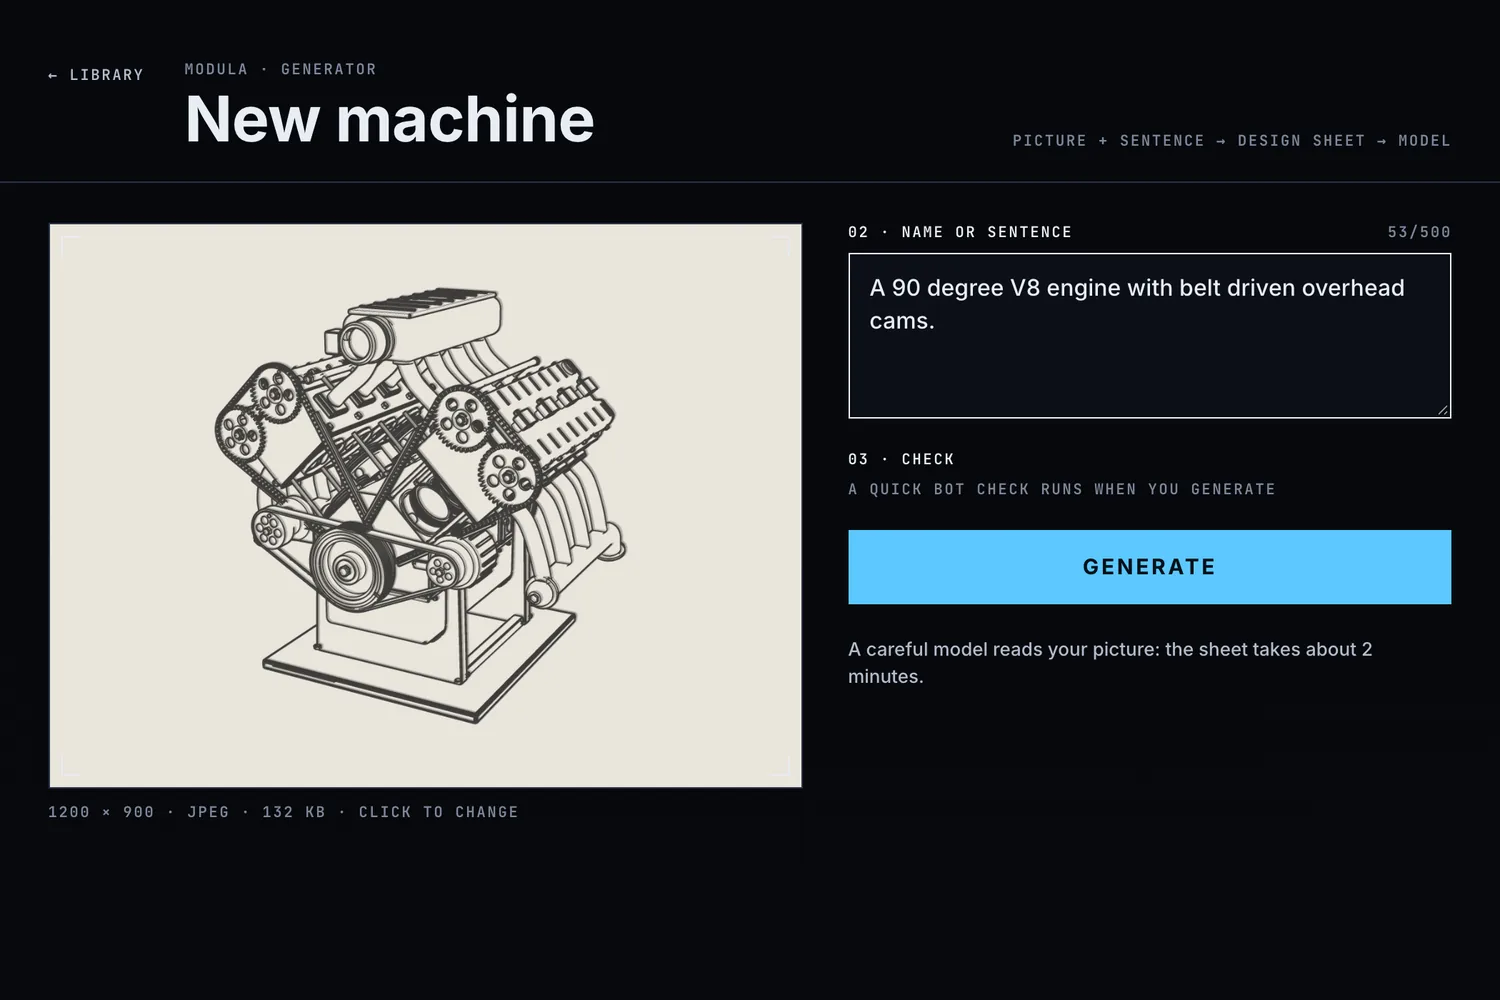
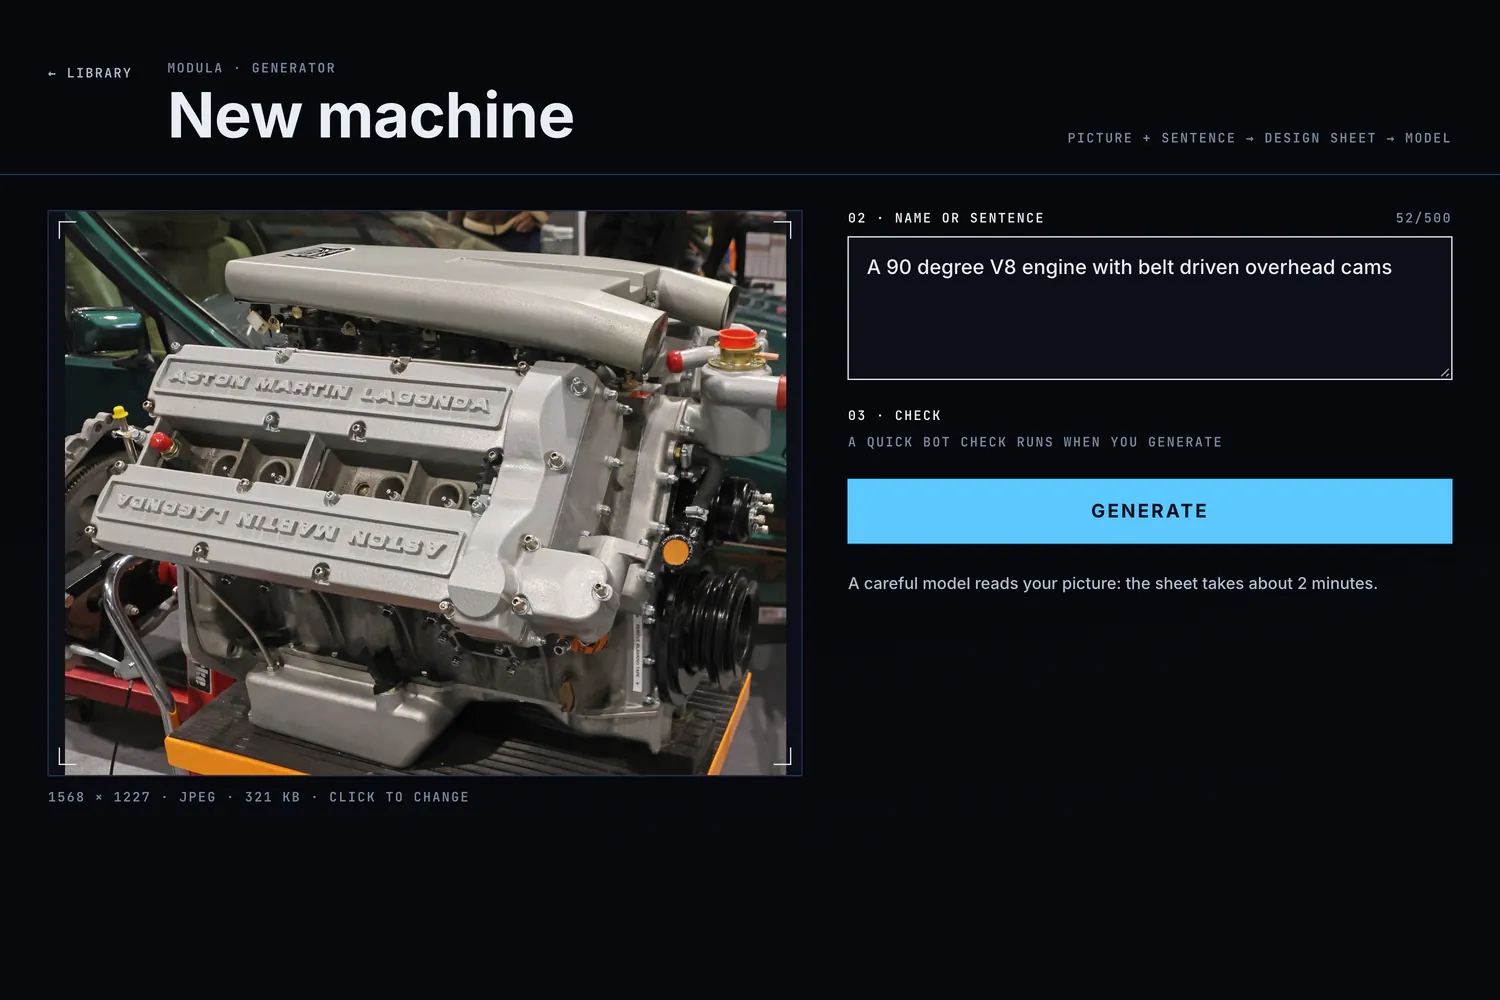
Modula: a real V8 photo in the New machine screenshot and the pipeline figure
- The picture that goes in is now a photograph of a real engine: Tony Hisgett's "Aston Martin Lagonda 5.3L V8
  Engine" (Wikimedia Commons, CC BY 2.0), credited on /credits under a new "Project figures" group (covers.json
  kind "figure", id modula-v8).
- New machine screenshot retaken from Modula's /#/new (dark theme, 1200x800 viewport rendered at 2.5x, 1500x1000
  WebP): the photo uploaded and "A 90 degree V8 engine with belt driven overhead cams" typed, GENERATE not pressed.
- Pipeline figure, panel 01: the photo, toned black to cream by build-covers.mjs, with a file header and corner marks,
  fades in and is scanned, in place of the drawn stand-in V8. Poster re-rendered.
- Flat scenes can draw photos: `images` on the scene, Painter.image in the canvas, SVG and scaled painters; the figure
  renders each picture as a hidden <img> so the page and the artifact build supply it. The poster script embeds them
  and can render only named scenes.
- Raw downloads in scratch-media/ stay out of git.

diff --git a/src/components/sheng/iso-engine.ts b/src/components/sheng/iso-engine.ts
@@ -81,6 +81,12 @@ export interface FlatScene {
   id: string;
   duration: number;
   poster: number;
+  /**
+   * Pictures the scene draws with `p.image` (public paths, e.g. "/images/projects/x.webp"). The figure renders each as
+   * a hidden <img>, so the page (and the artifact build, which inlines them) supplies the pixels; the poster script
+   * reads them from public/.
+   */
+  images?: readonly string[];
   draw(p: Painter, t: number): void;
 }
 export type AnyScene = Scene | FlatScene;
@@ -246,15 +252,30 @@ export interface Painter {
   circle(x: number, y: number, r: number, stroke: string | null, width: number, dash?: readonly number[], fill?: string): void;
   /** `spacing` is letter spacing in em (the labels' default is 0.14; terminal text uses 0). */
   text(x: number, y: number, text: string, color: string, size: number, align: Align, spacing?: number): void;
+  /** One of the scene's `images`, stretched to the box; nothing while it hasn't loaded. */
+  image(src: string, x: number, y: number, w: number, h: number, alpha?: number): void;
 }
 
 export class CanvasPainter implements Painter {
   private readonly ctx: CanvasRenderingContext2D;
   private readonly mono: string;
+  private readonly images: ReadonlyMap<string, HTMLImageElement>;
 
-  constructor(ctx: CanvasRenderingContext2D, mono: string) {
+  constructor(ctx: CanvasRenderingContext2D, mono: string, images: ReadonlyMap<string, HTMLImageElement> = new Map()) {
     this.ctx = ctx;
     this.mono = mono;
+    this.images = images;
+  }
+
+  image(src: string, x: number, y: number, w: number, h: number, alpha = 1): void {
+    const img = this.images.get(src);
+    if (!img || !img.complete || img.naturalWidth === 0 || alpha <= 0) return;
+    const { ctx } = this;
+    ctx.globalAlpha = Math.min(1, alpha);
+    ctx.imageSmoothingEnabled = true;
+    ctx.imageSmoothingQuality = "high";
+    ctx.drawImage(img, x, y, w, h);
+    ctx.globalAlpha = 1;
   }
 
   clear(w: number, h: number, color: string): void {
@@ -339,11 +360,23 @@ export type TextToPath = (text: string, x: number, y: number, size: number, alig
 export class SvgPainter implements Painter {
   private readonly font: string;
   private readonly toPath: TextToPath | null;
+  private readonly images: Readonly<Record<string, string>>;
   private readonly parts: string[] = [];
 
-  constructor(font: string, toPath: TextToPath | null = null) {
+  /** `images` maps a scene's picture paths to hrefs the rasteriser can read (the poster script passes data: URIs). */
+  constructor(font: string, toPath: TextToPath | null = null, images: Readonly<Record<string, string>> = {}) {
     this.font = font;
     this.toPath = toPath;
+    this.images = images;
+  }
+
+  image(src: string, x: number, y: number, w: number, h: number, alpha = 1): void {
+    const href = this.images[src];
+    if (!href || alpha <= 0) return;
+    const opacity = alpha < 1 ? ` opacity="${num(alpha)}"` : "";
+    this.parts.push(
+      `<image href="${escapeXml(href)}" x="${num(x)}" y="${num(y)}" width="${num(w)}" height="${num(h)}" preserveAspectRatio="none"${opacity}/>`,
+    );
   }
 
   clear(w: number, h: number, color: string): void {
@@ -418,6 +451,10 @@ class ScaledPainter implements Painter {
   text(x: number, y: number, text: string, color: string, size: number, align: Align, spacing?: number): void {
     this.inner.text(x * this.s, y * this.s, text, color, size * this.s, align, spacing);
   }
+
+  image(src: string, x: number, y: number, w: number, h: number, alpha?: number): void {
+    this.inner.image(src, x * this.s, y * this.s, w * this.s, h * this.s, alpha);
+  }
 }
 
 // ---------------------------------------------------------------- drawing a frame
@@ -488,9 +525,17 @@ export function drawFrame(painter: Painter, scene: AnyScene, w: number, h: numbe
   if (text) painter.text(w * 0.045, h - fontPx * 1.6, text, CAPTION, fontPx, "left");
 }
 
-/** The scene at time `t` as an SVG document (the poster). */
-export function renderSvg(scene: AnyScene, w: number, h: number, t = scene.poster, font = "JetBrains Mono", toPath: TextToPath | null = null): string {
-  const painter = new SvgPainter(font, toPath);
+/** The scene at time `t` as an SVG document (the poster). `images`: hrefs for the scene's pictures (see SvgPainter). */
+export function renderSvg(
+  scene: AnyScene,
+  w: number,
+  h: number,
+  t = scene.poster,
+  font = "JetBrains Mono",
+  toPath: TextToPath | null = null,
+  images: Readonly<Record<string, string>> = {},
+): string {
+  const painter = new SvgPainter(font, toPath, images);
   drawFrame(painter, scene, w, h, t);
   return painter.toString(w, h);
 }
@@ -528,14 +573,21 @@ class IsoPlayer {
   private readonly resizer: ResizeObserver | null = null;
   private readonly watcher: IntersectionObserver | null = null;
 
-  constructor(canvas: HTMLCanvasElement, scene: AnyScene, ctx: CanvasRenderingContext2D, mono: string) {
+  constructor(canvas: HTMLCanvasElement, scene: AnyScene, ctx: CanvasRenderingContext2D, mono: string, images: ReadonlyMap<string, HTMLImageElement>) {
     this.canvas = canvas;
     this.scene = scene;
     this.ctx = ctx;
-    this.painter = new CanvasPainter(ctx, mono);
+    this.painter = new CanvasPainter(ctx, mono, images);
     this.still = window.matchMedia("(prefers-reduced-motion: reduce)").matches;
     this.beatCaption = captionAt(scene, this.still ? scene.poster : 0);
     this.beatChangedAt = -Infinity;
+    // a picture that arrives while the scene isn't playing shows up in the frame on screen
+    for (const img of images.values()) {
+      if (img.complete) continue;
+      img.addEventListener("load", () => {
+        if (!this.running) this.paint(this.still ? scene.poster : this.played % scene.duration, performance.now());
+      }, { once: true });
+    }
     this.resize();
     if (this.still) {
       this.paint(scene.poster, performance.now());
@@ -620,7 +672,13 @@ export function initIsoScenes(root: ParentNode, mono: string): () => void {
     const canvas = host.querySelector<HTMLCanvasElement>("canvas.iso");
     const ctx = canvas?.getContext("2d");
     if (!scene || !canvas || !ctx) continue;
-    players.push(new IsoPlayer(canvas, scene, ctx, mono));
+    // the scene's pictures, from the hidden <img data-scene-img> the figure renders for each, in the same order
+    const images = new Map<string, HTMLImageElement>();
+    const elements = host.querySelectorAll<HTMLImageElement>("img[data-scene-img]");
+    sceneImages(scene.id).forEach((src, i) => {
+      if (elements[i]) images.set(src, elements[i]);
+    });
+    players.push(new IsoPlayer(canvas, scene, ctx, mono, images));
   }
   return () => {
     for (const player of players) player.destroy();
@@ -1394,7 +1452,7 @@ const BANKS: { a: number; u: Point }[] = [-1, 1].map((side) => {
  * A 90° V engine seen end on, `s` design units to a millimetre-ish unit, crank at (cx, cy): sump, crankcase, a cylinder,
  * piston, rod, head and cam per bank, and the crank pulley. `theta` turns the crank (0 = pin at the top); `apart` (0..1)
  * pulls sump, cylinders and heads off along their own axes, the explode; `show` (0..1) adds the parts one after another,
- * a drawing being read or drawn.
+ * a drawing being drawn.
  */
 function vEngine(p: Painter, cx: number, cy: number, s: number, theta: number, apart: number, look: EngineLook, show = 1): void {
   const c: Point = [cx, cy];
@@ -1431,7 +1489,24 @@ function vEngine(p: Painter, cx: number, cy: number, s: number, theta: number, a
     p.circle(pin[0], pin[1], 2.4 * s, null, 1, undefined, look.pin);
   }
 }
-const DRAWN: EngineLook = { line: "rgba(245,242,234,0.7)", block: OUTLINE, part: OUTLINE, pin: "rgba(245,242,234,0.7)", width: 1 };
+/**
+ * The picture that goes in: a photograph of a real V8 (Tony Hisgett's Aston Martin Lagonda 5.3L, CC BY 2.0, credited
+ * on /credits), toned to black and cream by scripts/build-covers.mjs from src/content/covers.json ("modula-v8").
+ */
+const V8_PHOTO = "/images/projects/modula-v8.webp";
+/** The photo's box in panel 01: the panel's width less a margin, at the photo's own 1568 × 1227 aspect. */
+const PHOTO_BOX = { x: 36, y: 95, w: 148, h: (148 * 1227) / 1568 };
+/** Corner marks just inside a box, like the app's picture frame. */
+const cornerMarks = (p: Painter, x: number, y: number, w: number, h: number, len: number, inset: number, color: string): void => {
+  const x0 = x + inset;
+  const y0 = y + inset;
+  const x1 = x + w - inset;
+  const y1 = y + h - inset;
+  p.polyline([[x0, y0 + len], [x0, y0], [x0 + len, y0]], color, 1);
+  p.polyline([[x1 - len, y0], [x1, y0], [x1, y0 + len]], color, 1);
+  p.polyline([[x1, y1 - len], [x1, y1], [x1 - len, y1]], color, 1);
+  p.polyline([[x0 + len, y1], [x0, y1], [x0, y1 - len]], color, 1);
+};
 const SHEET_INK: EngineLook = { line: "rgba(245,242,234,0.85)", block: OUTLINE, part: OUTLINE, pin: "rgba(245,242,234,0.85)", width: 0.8 };
 const SOLID: EngineLook = { line: "rgba(245,242,234,0.55)", block: "rgb(40,40,44)", part: "rgb(150,148,142)", pin: GREEN_FILL, width: 1 };
 /** The V8 example's own test figures (its design run as a model at 700 rpm). */
@@ -1454,13 +1529,28 @@ const pipelineScene: FlatScene = {
   id: "modula-pipeline",
   duration: 15,
   poster: 13.6,
+  images: [V8_PHOTO],
   draw(p, t) {
-    // ---- 01: the picture (a drawing being read) and a sentence
+    // ---- 01: the picture (a photo of a real V8, dropped in and read) and a sentence
     label(p, 30, 34, "01 · PHOTO OR DRAWING", DIM_TEXT, 9.5);
     rect(p, 30, 48, 160, 180, PANEL, PANEL_LINE);
-    vEngine(p, 110, 160, 1.1, 0.7, 0, DRAWN, clamp01((t - 0.2) / 1.4));
+    const { x: px, y: py, w: pw, h: ph } = PHOTO_BOX;
+    const dropped = easeOut(clamp01((t - 0.2) / 1));
+    if (dropped > 0) {
+      mono(p, 40, 63, "V8.JPG", CAPTION, 11);
+      label(p, 40, 77, "PHOTO", DIM_TEXT, 7.5);
+      mono(p, 180, 63, "1568 × 1227", SOFT_TEXT, 8.5, "right");
+      p.image(V8_PHOTO, px, py, pw, ph, dropped);
+      rect(p, px, py, pw, ph, OUTLINE, `rgba(245,242,234,${0.3 * dropped})`, 0.8);
+      cornerMarks(p, px, py, pw, ph, 7, 4, `rgba(245,242,234,${0.75 * dropped})`);
+    }
     const scan = (t - 1.9) / 1.1;
-    if (scan > 0 && scan < 1) line(p, 34, 52 + 172 * scan, 186, 52 + 172 * scan, GREEN_EDGE, 1.2);
+    if (scan > 0 && scan < 1) {
+      const y = py + ph * scan;
+      rect(p, px, py, pw, y - py, "rgba(44,169,66,0.14)", null);
+      line(p, px - 2, y, px + pw + 2, y, GREEN_EDGE, 1.2);
+      label(p, 180, 77, "READING", GREEN_LABEL, 7.5, "right");
+    }
     label(p, 30, 246, "SENTENCE", DIM_TEXT, 8.5);
     rect(p, 30, 254, 160, 24, PANEL, PANEL_LINE);
     const words = "a 90 degree V8 engine";
@@ -1551,3 +1641,9 @@ export const SCENES: Record<string, AnyScene> = {
   [gateScene.id]: gateScene,
   [pipelineScene.id]: pipelineScene,
 };
+
+/** The pictures the scene `id` draws (public paths, in order); none for isometric scenes and unknown ids. */
+export function sceneImages(id: string | undefined): readonly string[] {
+  const scene = id ? SCENES[id] : undefined;
+  return scene && isFlat(scene) ? (scene.images ?? []) : [];
+}

diff --git a/src/components/sheng/Article.tsx b/src/components/sheng/Article.tsx
@@ -1,6 +1,7 @@
 /* eslint-disable @next/next/no-img-element -- figures reuse the cover frame (canvas overlay), plain <img> like the source */
 import type { ReactNode } from "react";
 import type { Cover } from "@/content/projects";
+import { sceneImages } from "./iso-engine";
 import { LoopClip } from "./LoopClip";
 
 // Article blocks for the detail pages, with the source guide page's exact utility classes
@@ -99,13 +100,17 @@ export function CodeBlock({ id, label, source }: { id: string; label: string; so
 /**
  * A figure in the reading column; with `scene`, its animated scene (iso-engine.ts) plays over the still. With `video`,
  * a muted loop plays over the still while the figure is in view (subpage-effects.ts); the still stays underneath as
- * its poster, before JS, under reduced motion, and wherever the clip can't load.
+ * its poster, before JS, under reduced motion, and wherever the clip can't load. A scene that draws pictures gets them
+ * as hidden <img data-scene-img> elements, so the browser loads them and the artifact build inlines them.
  */
 export function Figure({ src, tone, title, caption, scene, video }: Cover & { title: string; caption: string; scene?: string; video?: string }) {
   return (
     <figure>
       <span className={`cover tone-${tone}`} data-scene={scene}>
         <img src={src} width={1200} height={800} alt={title} loading="lazy" decoding="async" />
+        {sceneImages(scene).map((picture) => (
+          <img key={picture} data-scene-img="" src={picture} alt="" aria-hidden="true" decoding="async" style={{ display: "none" }} />
+        ))}
         {video ? <LoopClip poster={src} mp4={video} /> : null}
         {scene ? <canvas className="iso" aria-hidden="true" /> : null}
         <canvas aria-hidden="true" />

diff --git a/src/app/credits/page.tsx b/src/app/credits/page.tsx
@@ -20,6 +20,7 @@ export default function CreditsPage() {
   const groups = [
     // the site's own stills (`own`) are rendered the same way but need no credit
     { heading: "Project covers", items: covers.filter((c) => c.kind === "project" && !("own" in c && c.own)) },
+    { heading: "Project figures", items: covers.filter((c) => c.kind === "figure") },
     { heading: "Experience panels", items: covers.filter((c) => c.kind === "experience") },
   ];
   return (
@@ -33,8 +34,8 @@ export default function CreditsPage() {
             </div>
             <h1 className="head-title">Photo credits</h1>
             <p className="head-lede">
-              The project covers are photographs re-rendered in this site&apos;s palette. Every photo is public domain, CC0, or CC BY, and is listed
-              here with its source. The MailZoo, Wharton and NASA panels, and the Project Reelix cover (a frame of its own video), are the
+              The project covers are photographs re-rendered in this site&apos;s palette, and Project Modula&apos;s figures start from a photograph
+              of a real V8. Every photo is public domain, CC0, or CC BY, and is listed here with its source. The MailZoo, Wharton and NASA panels, and the Project Reelix cover (a frame of its own video), are the
               site&apos;s own.
             </p>
           </div>

diff --git a/src/content/projects.ts b/src/content/projects.ts
@@ -94,14 +94,14 @@ export const projects: Project[] = [
         "scene": "modula-pipeline",
         "after": 0,
         "title": "From a picture to a working machine",
-        "caption": "A picture and a sentence go in. About two minutes later there is a design sheet, and from it a model that runs, comes apart, reports its figures and exports. The figures are the V8 example's test results."
+        "caption": "A photo of a real V8 and a sentence go in. About two minutes later there is a design sheet, and from it a model that runs, comes apart, reports its figures and exports. The figures are the V8 example's test results."
       },
       {
         "src": "/images/projects/modula-new.webp",
         "tone": "original",
         "after": 1,
         "title": "New machine",
-        "caption": "The new machine page with a drawing of a V8 picked and a sentence typed, one step before generate."
+        "caption": "The new machine page with a photo of a real V8 picked (an Aston Martin Lagonda V8, photo by Tony Hisgett, CC BY 2.0) and a sentence typed, one step before generate."
       },
       {
         "src": "/images/projects/modula-sheet.webp",

diff --git a/README.md b/README.md
@@ -83,12 +83,13 @@ Inside the claude.ai artifact there is no server. There, the card stores notes i
 
 ## Photos: project covers and experience panels
 
-`src/content/covers.json` lists every photograph used for the 13 project covers and for the Cornell, IIT, robotics and math-team panels: source URL, author and license (public domain, CC0, or CC BY). It is also the data behind `/credits`, linked from the footer.
+`src/content/covers.json` lists every photograph used for the 13 project covers, for the Cornell, IIT, robotics and math-team panels, and inside project figures (`kind: "figure"`): source URL, author and license (public domain, CC0, or CC BY). It is also the data behind `/credits`, linked from the footer.
 
 ```bash
 node scripts/build-covers.mjs              # downloads any missing source to docs/research/downloads/covers/, then renders:
                                            #   public/images/projects/<id>.webp      (1200×800 three-tone dither, green highlights)
                                            #   public/images/experience/<id>-bg.jpg  (1400px wide photo)
+                                           #   figures: public/images/projects/<id>.webp (`width` px, black-to-cream mono)
 node scripts/build-experience-assets.mjs   # the MailZoo/Wharton/NASA panels, the YC illustration, and the logo badges
 ```
 
@@ -113,7 +114,10 @@ script renders text as JetBrains Mono outlines (opentype.js), so the stills look
 
 Flat scenes (`FlatScene` in the same file) are 2D explainers drawn in a 600×400 design space with the same painters;
 a figure in `project.diagrams` plays one by naming it in `scene`, and `after: n` puts the figure right under paragraph
-`n` instead of in "How it works". A figure can instead carry a `video`: a muted 3:2 MP4 loop (H.264, ≤ 3 MB, in
+`n` instead of in "How it works". A flat scene can draw photos: list their public paths in its `images` and draw them
+with `p.image(src, x, y, w, h)`; the figure renders each as a hidden `<img>` (so the artifact build inlines it) and the
+poster script embeds it. Project Modula's pipeline figure starts from a photo of a real V8 this way (`modula-v8` in
+`covers.json`); its "New machine" screenshot shows the same photo, untoned, uploaded in the app. A figure can instead carry a `video`: a muted 3:2 MP4 loop (H.264, ≤ 3 MB, in
 `public/videos/`) that plays over its still while it is in view; the still is its poster and stays under reduced motion.
 
 A cover can carry a loop as well: `cover.video` (a muted 3:2 H.264 MP4, ≤ 2.5 MB) and optionally `cover.webm` (the
